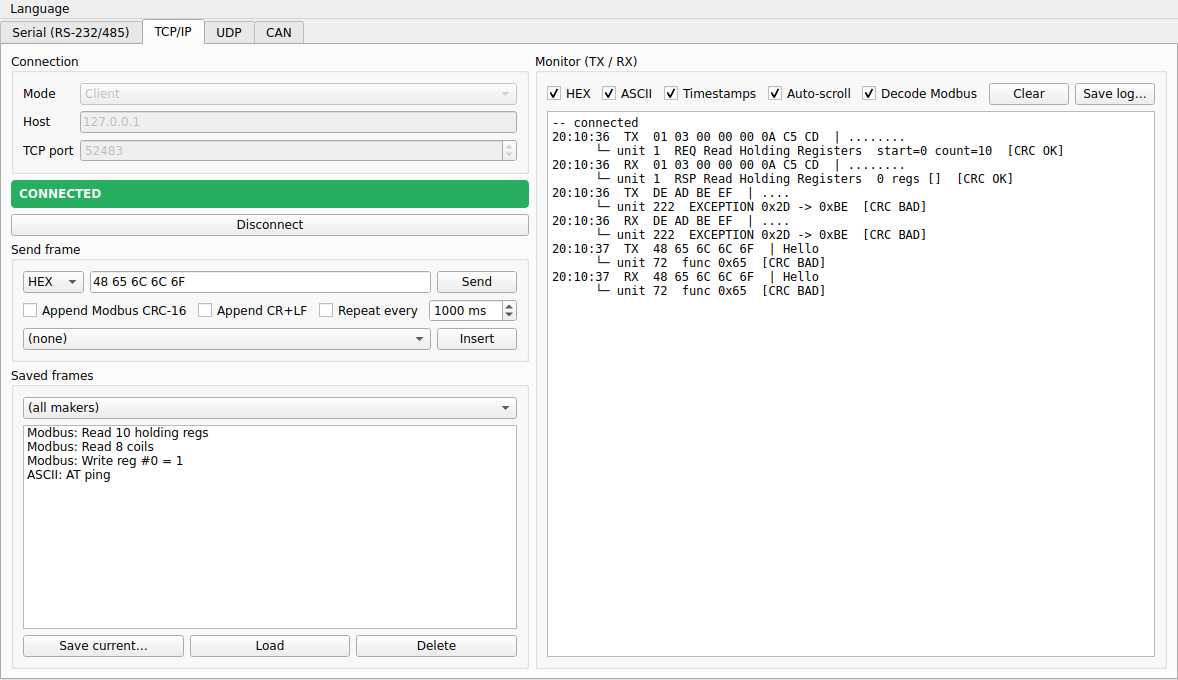
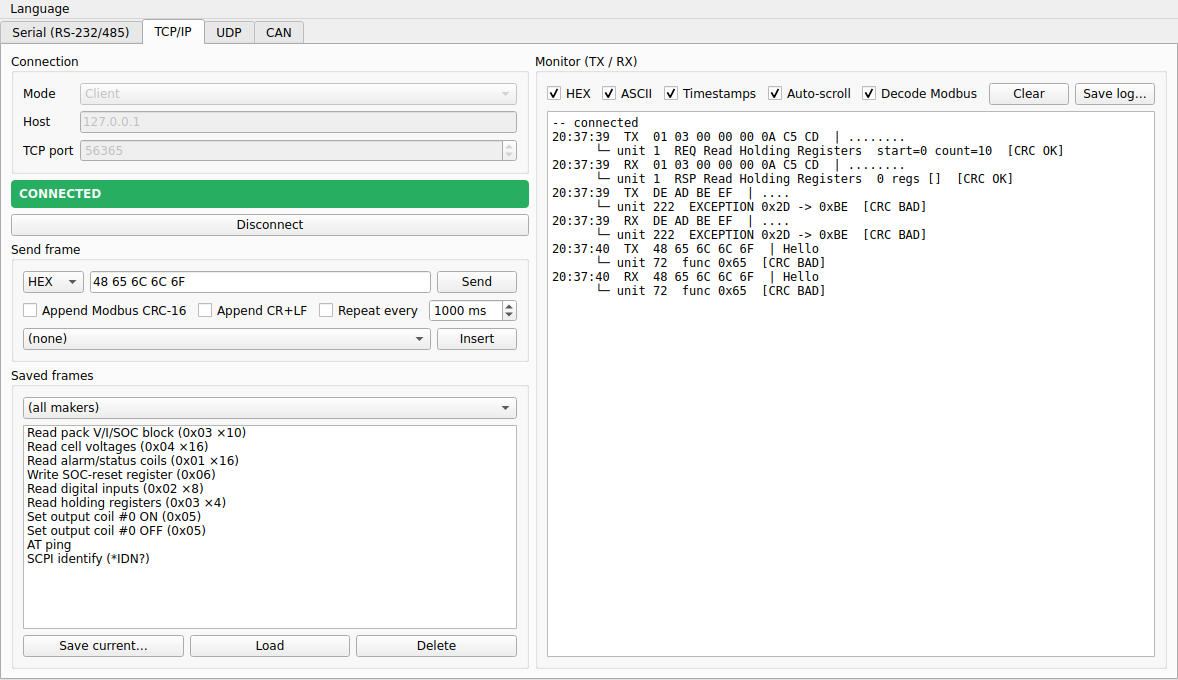
feat(macros): ship a field-realistic starter frame library
Replace the four placeholder seeds with a grouped starter set so the
saved-frames panel and its per-group filter are useful on first run:

- Modbus · BMS: pack V/I/SOC block, cell voltages, alarm coils, SOC reset
- Modbus · IO: digital-input read, holding read, output coil ON/OFF
- ASCII: AT ping, SCPI *IDN?

All Modbus seeds are valid RTU requests (verified by a new test that
round-trips each through describe_frame); regenerates screenshots + GIF.

Claude-Session: https://claude.ai/code/session_01SMx3kMszBaXJdasZZp8uTo

diff --git a/src/fae_toolkit/core/macros.py b/src/fae_toolkit/core/macros.py
@@ -123,34 +123,40 @@ class MacroStore:
 
 
 def default_macros() -> list[Macro]:
-    """A few illustrative macros seeded on first run."""
-    return [
+    """Field-realistic starter frames seeded on first run.
+
+    Grouped by typical FAE use case so the per-group filter is meaningful out of
+    the box.  All Modbus entries are RTU requests with ``append_crc`` enabled
+    (the 2-byte CRC is appended automatically on send), so they are ready to
+    fire at a device or one of the bundled emulators.  Users replace/extend
+    these with their own maker-specific frames.
+    """
+    # Modbus-RTU requests: (group, name, hex). is_hex + append_crc always on.
+    modbus = [
+        # BMS over RS-485 / Modbus-RTU
+        ("Modbus · BMS", "Read pack V/I/SOC block (0x03 ×10)", "01 03 00 00 00 0A"),
+        ("Modbus · BMS", "Read cell voltages (0x04 ×16)", "[phone redacted]"),
+        ("Modbus · BMS", "Read alarm/status coils (0x01 ×16)", "01 01 00 00 00 10"),
+        ("Modbus · BMS", "Write SOC-reset register (0x06)", "01 06 00 10 00 00"),
+        # Remote IO over Modbus-RTU
+        ("Modbus · IO", "Read digital inputs (0x02 ×8)", "01 02 00 00 00 08"),
+        ("Modbus · IO", "Read holding registers (0x03 ×4)", "01 03 00 00 00 04"),
+        ("Modbus · IO", "Set output coil #0 ON (0x05)", "01 05 00 00 FF 00"),
+        ("Modbus · IO", "Set output coil #0 OFF (0x05)", "01 05 00 00 00 00"),
+    ]
+    macros = [
+        Macro(name=name, text=text, is_hex=True, append_crc=True, group=group)
+        for group, name, text in modbus
+    ]
+    # ASCII / line-based instruments (newline-terminated, no CRC).
+    macros += [
+        Macro(name="AT ping", text="AT", is_hex=False, append_newline=True, group="ASCII"),
         Macro(
-            name="Modbus: Read 10 holding regs",
-            text="01 03 00 00 00 0A",
-            is_hex=True,
-            append_crc=True,
-            group="Modbus",
-        ),
-        Macro(
-            name="Modbus: Read 8 coils",
-            text="01 01 00 00 00 08",
-            is_hex=True,
-            append_crc=True,
-            group="Modbus",
-        ),
-        Macro(
-            name="Modbus: Write reg #0 = 1",
-            text="01 06 00 00 00 01",
-            is_hex=True,
-            append_crc=True,
-            group="Modbus",
-        ),
-        Macro(
-            name="ASCII: AT ping",
-            text="AT",
+            name="SCPI identify (*IDN?)",
+            text="*IDN?",
             is_hex=False,
             append_newline=True,
             group="ASCII",
         ),
     ]
+    return macros

diff --git a/tests/test_macros.py b/tests/test_macros.py
@@ -72,3 +72,18 @@ def test_default_macros_are_valid():
     macros = default_macros()
     assert macros
     assert all(m.name and m.text for m in macros)
+    # Names are unique (so the store does not silently collapse seeds).
+    assert len({m.name for m in macros}) == len(macros)
+
+
+def test_default_modbus_macros_are_well_formed_frames():
+    from fae_toolkit.core.crc import append_crc
+    from fae_toolkit.core.hexfmt import parse_hex
+    from fae_toolkit.protocols.modbus import describe_frame
+
+    for m in default_macros():
+        if not m.append_crc:
+            continue
+        frame = append_crc(parse_hex(m.text))  # the sender appends CRC at send time
+        decoded = describe_frame(frame, response=False)
+        assert "CRC OK" in decoded  # round-trips through the decoder cleanly

diff --git a/README.md b/README.md
@@ -26,7 +26,7 @@
 
 1. **실제 연결** — 포트/소켓/버스가 없으면 연결이 **실패**합니다. 자동으로 주입되는 가짜 텔레메트리가 없습니다.
 2. **사용자 정의 프레임** — 제조사마다 다른 프레임을 **HEX/ASCII로 직접 입력**하고, Modbus CRC-16 자동첨부·CR+LF·주기 송신 옵션을 켤 수 있습니다.
-3. **저장 프레임(매크로)** — 자주 쓰는 프레임을 **제조사별로 저장·불러오기**(JSON 영속). 탭(Serial/TCP/UDP)별로 따로 보관됩니다.
+3. **저장 프레임(매크로)** — 자주 쓰는 프레임을 **제조사별로 저장·불러오기**(JSON 영속). 탭(Serial/TCP/UDP)별로 따로 보관되며, BMS 읽기 / 원격 IO 읽기·쓰기 / ASCII 등 **기본 프레임 라이브러리가 첫 실행 시 시드**됩니다.
 4. **수신 해석** — 모니터의 **Decode Modbus** 옵션으로 송신은 요청, 수신은 응답으로 해석해 레지스터·비트·예외·CRC 상태를 한 줄로 보여줍니다.
 5. **통신 유형 중심** — Serial / TCP / UDP / CAN 탭. 각 탭은 해당 통신의 파라미터만 노출합니다.
 6. **하드웨어 없이도 정직하게** — 가상 시리얼 페어(socat/com0com), 로컬 에코(TCP/UDP), CAN virtual, 또는 동봉된 **디바이스 에뮬레이터**로 시연합니다(가짜 대시보드가 아니라 실제 송수신).